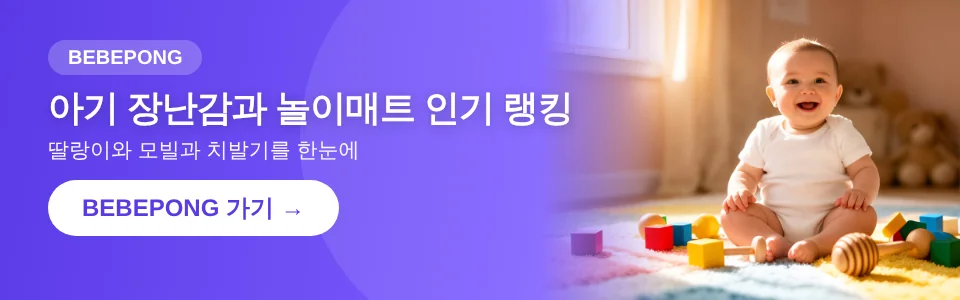
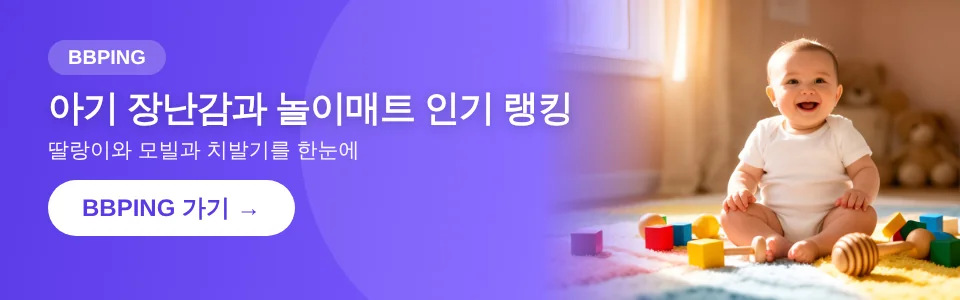
Move the baby products site to bbping.kr

Changed region(s): [[0.0938, 0.6, 0.375, 0.81], [0.0938, 0.12, 0.2188, 0.27]]

diff --git a/sites/bebepong.js b/sites/bebepong.js
@@ -1,16 +1,16 @@
-// BEBEPONG 사이트 설정 — 이 파일 하나만 고치면 이 사이트의 이름과 분야와 검색어와 색상이 바뀝니다
+// BBPING 사이트 설정 — 이 파일 하나만 고치면 이 사이트의 이름과 분야와 검색어와 색상이 바뀝니다
 export default {
   id: 'bebepong',
   strict: true, // 분류 규칙이 있는 분야는 상품 이름에 그 단어가 있을 때만 담는다
-  domains: ['bebepong.com', 'www.bebepong.com'],
-  host: 'https://bebepong.com',
-  redirects: ['bebepong.kr', 'www.bebepong.kr', 'bebepong.co.kr', 'www.bebepong.co.kr'], // 이 주소로 들어오면 대표 주소로 옮겨 준다
-  name: 'BEBEPONG',
+  domains: ['bbping.kr', 'www.bbping.kr'],
+  host: 'https://bbping.kr',
+  redirects: ['bbping.co.kr', 'www.bbping.co.kr'], // 이 주소로 들어오면 대표 주소로 옮겨 준다
+  name: 'BBPING',
   mark: '🍼',
   icon: '🍼',
   logo: '<rect x="11" y="13" width="10" height="15" rx="3.5" fill="{c1}"/><rect x="12.5" y="9" width="7" height="4.5" rx="1.6" fill="{c2}"/><path d="M14 9V6.5a2 2 0 0 1 4 0V9z" fill="{c1}"/><rect x="13.5" y="17" width="5" height="1.6" rx=".8" fill="#fff"/><rect x="13.5" y="21" width="5" height="1.6" rx=".8" fill="#fff"/><circle cx="25" cy="8" r="2" fill="{c2}"/><circle cx="6" cy="22" r="1.6" fill="{c2}"/>',
   emptyIcon: '🍼',
-  title: 'BEBEPONG | 아기 용품 인기 랭킹 쇼핑',
+  title: 'BBPING | 아기 용품 인기 랭킹 쇼핑',
   h1: '아기 용품 인기 랭킹',
   tagline: '아기 용품의 모든 것',
   desc: '기저귀와 분유와 젖병과 유모차와 장난감과 아기옷까지 아기 용품 인기템 랭킹을 쿠팡 기준으로 자동으로 업데이트합니다',
@@ -18,7 +18,7 @@ export default {
   refresh: '분야를 돌아가며 자동으로 갱신되며 분야마다 갱신 시점이 다를 수 있습니다.',
   topbar: '🍼 아기 용품 인기템을 자동으로 업데이트해요',
   searchPlaceholder: '찾고 싶은 아기 용품을 검색해보세요',
-  heroEmpty: { small: '🍼 BEBEPONG', text: '아기 인기템을 준비하고 있어요' },
+  heroEmpty: { small: '🍼 BBPING', text: '아기 인기템을 준비하고 있어요' },
   tiles: [
     { cls: 't1', href: '/c/기저귀물티슈', title: '👶 기저귀와 물티슈 모아보기', sub: '매일 쓰는 필수 용품' },
     { cls: 't2', href: '#/talk', title: '💬 수다방', sub: '육아 꿀팁과 후기 나누기' }
@@ -193,7 +193,7 @@ export default {
     }
   },
   seed: [ // 커뮤니티 첫 글 (운영자 명의)
-    ['notice', 'BEBEPONG 이용 안내', 'BEBEPONG은 육아 이야기를 나누는 익명 커뮤니티입니다.\n\n- 닉네임과 비밀번호만 입력하면 글을 쓸 수 있어요\n- 비밀번호로 내 글을 수정하거나 지울 수 있어요\n- 광고와 욕설은 삭제될 수 있어요'],
+    ['notice', 'BBPING 이용 안내', 'BBPING은 육아 이야기를 나누는 익명 커뮤니티입니다.\n\n- 닉네임과 비밀번호만 입력하면 글을 쓸 수 있어요\n- 비밀번호로 내 글을 수정하거나 지울 수 있어요\n- 광고와 욕설은 삭제될 수 있어요'],
     ['qna', '출산 준비물 뭐부터 사셨어요', '출산 전에 꼭 필요했던 것과 안 사도 됐던 것을 알려 주세요.\n\n댓글로 남겨 주시면 많은 도움이 됩니다.'],
     ['free', '오늘의 우리 아기', '오늘 있었던 귀여운 순간이나 새로 산 용품 이야기를 편하게 남겨 주세요.\n사소한 이야기도 환영입니다.']
   ],

diff --git a/src/analytics.js b/src/analytics.js
@@ -266,7 +266,7 @@ button{background:var(--p1);color:#fff;border:0;border-radius:8px;padding:6px 12
 <section class="box"><h2>최근 활동</h2><div class="wrap"><table><tr><th>시간</th><th>구분</th><th>내용</th><th>지역</th><th>기기</th><th>브라우저</th><th>OS</th><th>IP</th><th>유입</th></tr>
 ${recent.map(r => `<tr><td>${kst(r.ts)}</td><td><span class="tag ${r.type}">${r.type === 'click' ? '클릭' : '방문'}</span></td><td>${r.type === 'click' && r.code ? `<a href="${esc(SITE.host)}/${esc(r.code)}?go=a" target="_blank" rel="noopener nofollow">${esc(`${r.code} ${r.name}`.slice(0, 40))}</a>` : esc(r.type === 'click' ? `${r.code} ${r.name}`.slice(0, 40) : '메인')}</td><td>${esc(`${r.country} ${r.city}`.trim())}</td><td>${esc(r.device)}</td><td>${esc(r.browser)}</td><td>${esc(r.os)}</td><td>${esc(r.ipm || '')}</td><td>${esc(r.ref || '직접')}</td></tr>`).join('') || '<tr><td colspan="9" class="mute">기록이 없습니다</td></tr>'}
 </table></div></section>
-<section class="box" style="margin-top:12px"><h2>배너 모아보기 (${PROMOS.length}개)</h2><p class="mute">이 사이트에서는 자기 사이트 배너를 뺀 나머지가 무작위로 하나씩 보입니다. 이미지를 누르면 연결 주소로 갑니다.</p><div style="display:grid;grid-template-columns:repeat(auto-fill,minmax(300px,1fr));gap:14px">${PROMOS.map(b => `<div><a href="${esc0(b.url)}" target="_blank" rel="noopener nofollow"><picture><source media="(min-width:761px)" srcset="${esc0(SITE.host)}/promo/${esc0(b.id)}-w.webp?v=6"><img src="${esc0(SITE.host)}/promo/${esc0(b.id)}-n.webp?v=6" alt="${esc0(b.text)}" loading="lazy" style="width:100%;border-radius:10px;display:block"></picture></a><small class="mute">${esc0(b.id)} · ${esc0(b.site)}${b.site === SITE.id ? ' (이 사이트 배너)' : ''} · ${esc0(b.text)}</small></div>`).join('')}</div></section>
+<section class="box" style="margin-top:12px"><h2>배너 모아보기 (${PROMOS.length}개)</h2><p class="mute">이 사이트에서는 자기 사이트 배너를 뺀 나머지가 무작위로 하나씩 보입니다. 이미지를 누르면 연결 주소로 갑니다.</p><div style="display:grid;grid-template-columns:repeat(auto-fill,minmax(300px,1fr));gap:14px">${PROMOS.map(b => `<div><a href="${esc0(b.url)}" target="_blank" rel="noopener nofollow"><picture><source media="(min-width:761px)" srcset="${esc0(SITE.host)}/promo/${esc0(b.id)}-w.webp?v=7"><img src="${esc0(SITE.host)}/promo/${esc0(b.id)}-n.webp?v=7" alt="${esc0(b.text)}" loading="lazy" style="width:100%;border-radius:10px;display:block"></picture></a><small class="mute">${esc0(b.id)} · ${esc0(b.site)}${b.site === SITE.id ? ' (이 사이트 배너)' : ''} · ${esc0(b.text)}</small></div>`).join('')}</div></section>
 <section class="box" style="margin-top:12px"><h2>커뮤니티 관리</h2>
 <div class="wrap"><table><tr><th>번호</th><th>게시판</th><th>제목</th><th>작성자</th><th>댓글</th><th>좋아요</th><th>시간</th><th></th></tr>
 ${mPosts.map(r => `<tr><td>${r.id}</td><td>${esc(r.board)}</td><td>${esc(r.title.slice(0, 30))}</td><td>${esc(r.nick)}</td><td>${r.ccount}</td><td>${r.likes}</td><td>${kst(r.ts)}</td><td><button onclick="del('posts',${r.id})">삭제</button></td></tr>`).join('') || '<tr><td colspan="8" class="mute">글이 없습니다</td></tr>'}

diff --git a/sites/index.js b/sites/index.js
@@ -60,9 +60,9 @@ export const PROMOS = [
   { id: 'p4', site: 'pemily', text: '앵무새 사료와 새장 인기 랭킹', url: 'https://pemily.kr/c/%EC%86%8C%EB%8F%99%EB%AC%BC%EC%A1%B0%EB%A5%98' },
   { id: 'p5', site: 'pemily', text: '관상어 어항과 여과기 인기템', url: 'https://pemily.kr/c/%EA%B4%80%EC%83%81%EC%96%B4' },
   { id: 'p6', site: 'pemily', text: '하네스와 리드줄 산책용품 인기템', url: 'https://pemily.kr/c/%EC%82%B0%EC%B1%85%EC%99%B8%EC%B6%9C' },
-  { id: 'g1', site: 'bebepong', text: '아기 장난감과 놀이매트 인기 랭킹', url: 'https://bebepong.com/c/%EC%9E%A5%EB%82%9C%EA%B0%90%EC%99%84%EA%B5%AC' },
-  { id: 'g2', site: 'bebepong', text: '이유식 식기와 하이체어 인기템', url: 'https://bebepong.com/c/%EC%9D%B4%EC%9C%A0%EC%8B%9D%EC%9A%A9%ED%92%88' },
-  { id: 'g3', site: 'bebepong', text: '유모차와 카시트 인기 랭킹', url: 'https://bebepong.com/c/%EC%9C%A0%EB%AA%A8%EC%B0%A8%EC%B9%B4%EC%8B%9C%ED%8A%B8' },
+  { id: 'g1', site: 'bebepong', text: '아기 장난감과 놀이매트 인기 랭킹', url: 'https://bbping.kr/c/%EC%9E%A5%EB%82%9C%EA%B0%90%EC%99%84%EA%B5%AC' },
+  { id: 'g2', site: 'bebepong', text: '이유식 식기와 하이체어 인기템', url: 'https://bbping.kr/c/%EC%9D%B4%EC%9C%A0%EC%8B%9D%EC%9A%A9%ED%92%88' },
+  { id: 'g3', site: 'bebepong', text: '유모차와 카시트 인기 랭킹', url: 'https://bbping.kr/c/%EC%9C%A0%EB%AA%A8%EC%B0%A8%EC%B9%B4%EC%8B%9C%ED%8A%B8' },
   { id: 'u1', site: 'usb', text: 'USB.KR 전자기기 가격 비교', url: 'https://usb.kr/' },
   { id: 'u2', site: 'usb', text: '차량용 전자기기 모아보기', url: 'https://usb.kr/category/car' },
   { id: 'u3', site: 'usb', text: '쿠팡 골드박스 전자기기 핫딜', url: 'https://usb.kr/deals' }

diff --git a/public/index.html b/public/index.html
@@ -31,7 +31,7 @@ window.__d = window.__p ? Promise.resolve(window.__p) : Promise.all([
   var b = B[Math.floor(Math.random() * B.length)], el = document.getElementById('promo');
   if (!b || !el) return;
   var u = b[2] + (b[2].indexOf('?') < 0 ? '?' : '&') + 'utm_source={{HOSTNAME}}&utm_medium=banner&utm_campaign=' + b[0];
-  el.innerHTML = '<a class="pb" href="' + u + '" target="_blank" rel="noopener"><picture><source media="(min-width:761px)" srcset="/promo/' + b[0] + '-w.webp?v=6"><img src="/promo/' + b[0] + '-n.webp?v=6" width="960" height="300" alt="' + b[1] + '" fetchpriority="low" decoding="async"></picture></a><span class="tags"><small>AI 생성 이미지</small><small>광고</small></span>';
+  el.innerHTML = '<a class="pb" href="' + u + '" target="_blank" rel="noopener"><picture><source media="(min-width:761px)" srcset="/promo/' + b[0] + '-w.webp?v=7"><img src="/promo/' + b[0] + '-n.webp?v=7" width="960" height="300" alt="' + b[1] + '" fetchpriority="low" decoding="async"></picture></a><span class="tags"><small>AI 생성 이미지</small><small>광고</small></span>';
 })();
 </script>
 <div class="feebar"><div class="in">{{DISC_TOP}}</div></div>

diff --git a/src/seo.js b/src/seo.js
@@ -336,7 +336,7 @@ async function seo(req, env, url, ctx, h = {}) {
     const r = route(p);
     if (!r) return null;
     const cache = caches.default;
-    const key = new Request(url.origin + url.pathname + '?v=41&s=' + SITE.id);
+    const key = new Request(url.origin + url.pathname + '?v=42&s=' + SITE.id);
     let miss = false; // 상품 목록은 읽었는데 이 상품만 없을 때
     const gone = () => new Response('<!doctype html><meta charset="utf-8"><meta name="robots" content="noindex"><title>상품이 목록에서 빠졌어요</title><body style="font-family:sans-serif;padding:40px;line-height:1.7"><h1>이 상품은 더 이상 목록에 없어요</h1><p>판매가 끝났거나 인기 목록에서 빠진 상품입니다.</p><p><a href="/all">전체 상품 보기</a></p>', { status: 410, headers: { 'content-type': 'text/html;charset=utf-8', 'cache-control': 'public,max-age=3600', 'x-robots-tag': 'noindex' } });
     const gen = async () => {
